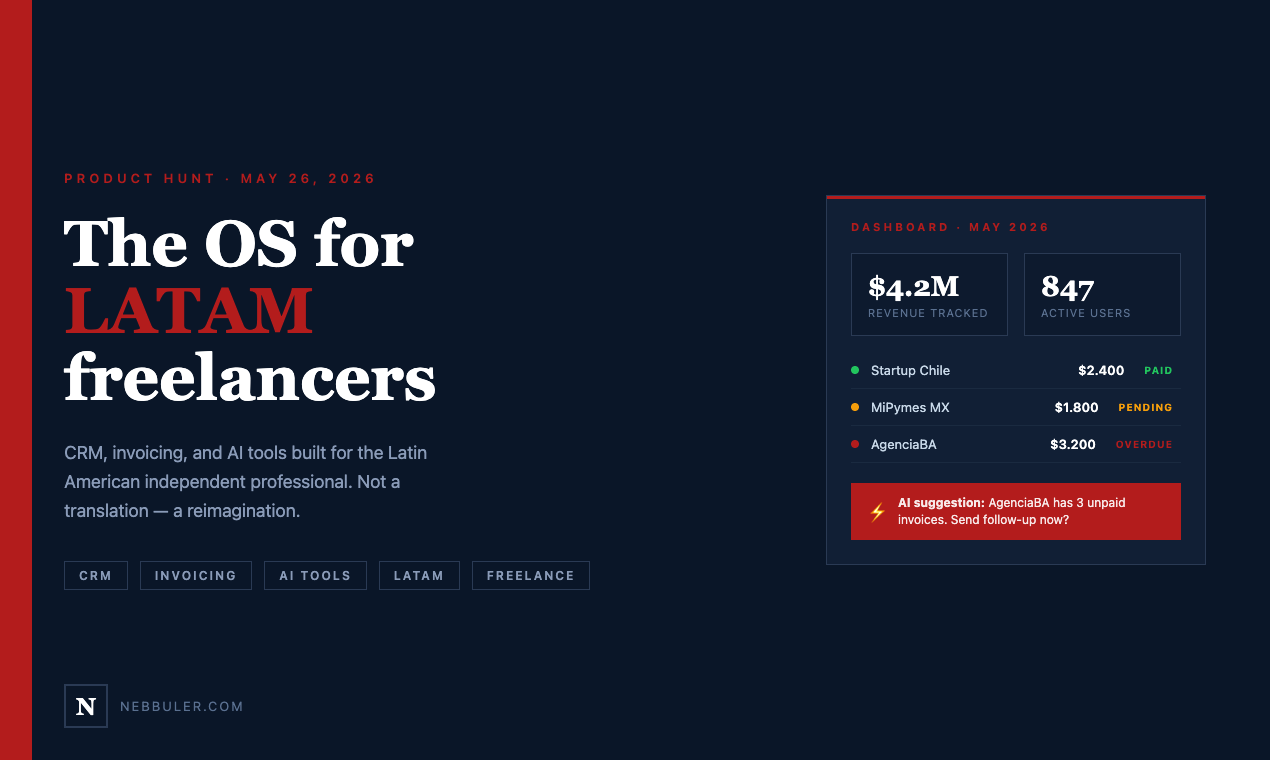
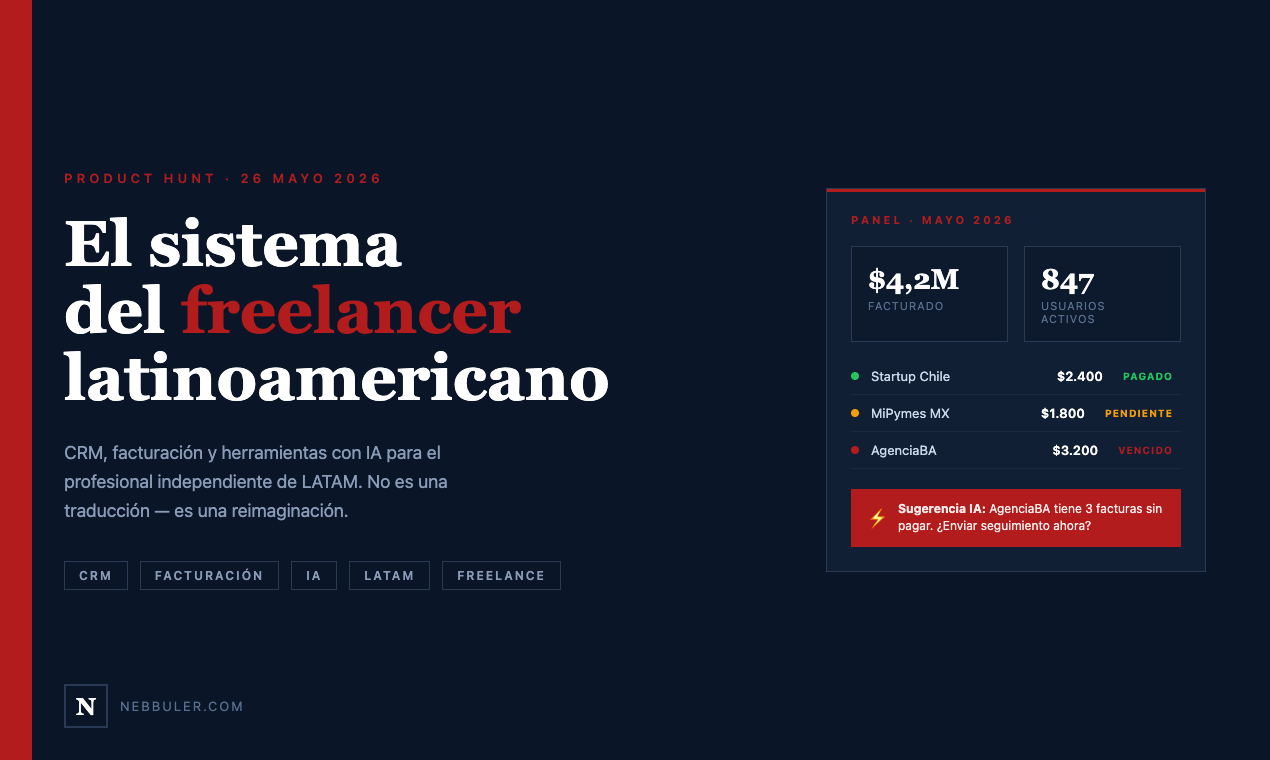
feat(product-hunt): galleries y copy 100% en español

diff --git a/public/product-hunt/ph-gallery-2.html b/public/product-hunt/ph-gallery-2.html
@@ -1,5 +1,5 @@
 <!DOCTYPE html>
-<html lang="en">
+<html lang="es">
 <head>
 <meta charset="UTF-8"/>
 <meta name="viewport" content="width=1270"/>
@@ -7,7 +7,7 @@
   * { margin: 0; padding: 0; box-sizing: border-box; }
   body {
     width: 1270px; height: 760px; overflow: hidden;
-    font-family: Georgia, serif;
+    font-family: 'Public Sans', system-ui, sans-serif;
     background: #FFFFFF;
   }
   .left-stripe { position: absolute; left: 0; top: 0; width: 8px; height: 760px; background: #B31C1C; }
@@ -56,6 +56,7 @@
   .content-area { padding: 36px 40px; overflow: hidden; }
   .page-title {
     font-size: 28px; font-weight: 700; color: #121212; margin-bottom: 8px;
+    font-family: Georgia, serif;
   }
   .page-sub {
     font-family: 'Public Sans', system-ui, sans-serif;
@@ -105,14 +106,13 @@
     font-family: 'Public Sans', system-ui, sans-serif;
     font-size: 11px; font-weight: 700; letter-spacing: 1px;
     color: #B31C1C; text-transform: uppercase; margin-top: 10px;
-    cursor: pointer; text-decoration: underline;
   }
   .kpi-row { display: flex; gap: 16px; margin-bottom: 24px; }
   .kpi {
     flex: 1; background: white; border: 1px solid #DEDEDE; padding: 16px 20px;
     border-top: 3px solid #0A1628;
   }
-  .kpi-num { font-size: 26px; font-weight: 700; color: #121212; }
+  .kpi-num { font-size: 26px; font-weight: 700; color: #121212; font-family: Georgia, serif; }
   .kpi-label {
     font-family: 'Public Sans', system-ui, sans-serif;
     font-size: 11px; color: #999; text-transform: uppercase; letter-spacing: 1px; margin-top: 4px;
@@ -129,74 +129,74 @@
     <span>Nebbuler</span>
   </div>
   <div class="nav-items">
-    <span>Dashboard</span>
-    <span>Clients</span>
-    <span>Invoices</span>
-    <span>Projects</span>
-    <span>Reports</span>
+    <span>Panel</span>
+    <span>Clientes</span>
+    <span>Facturas</span>
+    <span>Proyectos</span>
+    <span>Reportes</span>
   </div>
 </div>
 <div class="main">
   <div class="sidebar">
     <div class="sidebar-section">
-      <div class="sidebar-label">Management</div>
-      <div class="sidebar-item active"><span>📄</span> Invoices</div>
-      <div class="sidebar-item"><span>👥</span> Clients</div>
-      <div class="sidebar-item"><span>📁</span> Projects</div>
-      <div class="sidebar-item"><span>💬</span> Proposals</div>
+      <div class="sidebar-label">Gestión</div>
+      <div class="sidebar-item active"><span>📄</span> Facturas</div>
+      <div class="sidebar-item"><span>👥</span> Clientes</div>
+      <div class="sidebar-item"><span>📁</span> Proyectos</div>
+      <div class="sidebar-item"><span>💬</span> Propuestas</div>
     </div>
     <div class="sidebar-section">
-      <div class="sidebar-label">Finance</div>
-      <div class="sidebar-item"><span>💰</span> Cash Flow</div>
-      <div class="sidebar-item"><span>📊</span> Reports</div>
-      <div class="sidebar-item"><span>🧾</span> Expenses</div>
+      <div class="sidebar-label">Finanzas</div>
+      <div class="sidebar-item"><span>💰</span> Flujo de caja</div>
+      <div class="sidebar-item"><span>📊</span> Reportes</div>
+      <div class="sidebar-item"><span>🧾</span> Gastos</div>
     </div>
     <div class="sidebar-section">
-      <div class="sidebar-label">AI Tools</div>
-      <div class="sidebar-item"><span>⚡</span> AI Assistant</div>
-      <div class="sidebar-item"><span>✉</span> Follow-ups</div>
-      <div class="sidebar-item"><span>🔮</span> Forecast</div>
+      <div class="sidebar-label">Herramientas IA</div>
+      <div class="sidebar-item"><span>⚡</span> Asistente IA</div>
+      <div class="sidebar-item"><span>✉</span> Seguimientos</div>
+      <div class="sidebar-item"><span>🔮</span> Proyección</div>
     </div>
   </div>
   <div class="content-area">
-    <div class="page-title">Invoices</div>
-    <p class="page-sub">May 2026 · 12 invoices · CLP / USD / EUR / ARS</p>
+    <div class="page-title">Facturas</div>
+    <p class="page-sub">Mayo 2026 · 12 facturas · CLP / USD / EUR / ARS</p>
     <div class="kpi-row">
-      <div class="kpi"><div class="kpi-num">$18.400</div><div class="kpi-label">Total billed</div></div>
-      <div class="kpi highlight"><div class="kpi-num">$6.200</div><div class="kpi-label">Overdue</div></div>
-      <div class="kpi"><div class="kpi-num">$9.800</div><div class="kpi-label">Collected</div></div>
-      <div class="kpi"><div class="kpi-num">4</div><div class="kpi-label">Pending</div></div>
+      <div class="kpi"><div class="kpi-num">$18.400</div><div class="kpi-label">Total facturado</div></div>
+      <div class="kpi highlight"><div class="kpi-num">$6.200</div><div class="kpi-label">Vencido</div></div>
+      <div class="kpi"><div class="kpi-num">$9.800</div><div class="kpi-label">Cobrado</div></div>
+      <div class="kpi"><div class="kpi-num">4</div><div class="kpi-label">Pendientes</div></div>
     </div>
     <div class="invoice-header">
-      <div>Client</div><div>Amount</div><div>Due Date</div><div>Currency</div><div>Status</div>
+      <div>Cliente</div><div>Monto</div><div>Vencimiento</div><div>Moneda</div><div>Estado</div>
     </div>
     <div class="invoice-row">
-      <div><div class="client-col">Startup Chile</div><div class="client-sub">INV-2026-034</div></div>
+      <div><div class="client-col">Startup Chile</div><div class="client-sub">FAC-2026-034</div></div>
       <div class="amount-col">$2.400</div>
-      <div class="date-col">May 15</div>
+      <div class="date-col">15 mayo</div>
       <div class="date-col">USD</div>
-      <div><span class="status-badge" style="background:#dcfce7;color:#166534">Paid</span></div>
+      <div><span class="status-badge" style="background:#dcfce7;color:#166534">Pagado</span></div>
     </div>
     <div class="invoice-row">
-      <div><div class="client-col">MiPymes MX</div><div class="client-sub">INV-2026-033</div></div>
+      <div><div class="client-col">MiPymes MX</div><div class="client-sub">FAC-2026-033</div></div>
       <div class="amount-col">$1.800</div>
-      <div class="date-col">May 20</div>
+      <div class="date-col">20 mayo</div>
       <div class="date-col">MXN</div>
-      <div><span class="status-badge" style="background:#fef3c7;color:#92400e">Pending</span></div>
+      <div><span class="status-badge" style="background:#fef3c7;color:#92400e">Pendiente</span></div>
     </div>
     <div class="invoice-row">
-      <div><div class="client-col">AgenciaBA</div><div class="client-sub">INV-2026-031</div></div>
+      <div><div class="client-col">AgenciaBA</div><div class="client-sub">FAC-2026-031</div></div>
       <div class="amount-col">$3.200</div>
-      <div class="date-col">May 1</div>
+      <div class="date-col">1 mayo</div>
       <div class="date-col">ARS</div>
-      <div><span class="status-badge" style="background:#fee2e2;color:#991b1b">Overdue</span></div>
+      <div><span class="status-badge" style="background:#fee2e2;color:#991b1b">Vencido</span></div>
     </div>
     <div class="ai-panel">
       <div class="ai-icon-box">⚡</div>
       <div class="ai-content">
-        <div class="ai-title">AI Follow-up Assistant</div>
-        <div class="ai-text">AgenciaBA has 3 overdue invoices totaling $6.200. I drafted a professional follow-up email in Spanish. Ready to send?</div>
-        <div class="ai-action">→ Review draft &amp; send</div>
+        <div class="ai-title">Asistente de Seguimiento IA</div>
+        <div class="ai-text">AgenciaBA tiene 3 facturas vencidas por $6.200. Redacté un correo de seguimiento profesional. ¿Lo enviamos?</div>
+        <div class="ai-action">→ Revisar borrador y enviar</div>
       </div>
     </div>
   </div>

diff --git a/public/product-hunt/ph-gallery-3.html b/public/product-hunt/ph-gallery-3.html
@@ -1,5 +1,5 @@
 <!DOCTYPE html>
-<html lang="en">
+<html lang="es">
 <head>
 <meta charset="UTF-8"/>
 <meta name="viewport" content="width=1270"/>
@@ -54,8 +54,6 @@
   .price-num { font-family: Georgia, serif; font-size: 36px; font-weight: 700; color: #121212; }
   .price-period { font-size: 12px; color: #999; margin-top: 3px; }
   .price-sub { font-size: 11px; color: #999; margin-top: 4px; letter-spacing: 0.5px; }
-
-  /* Right col — testimonials & stats */
   .right-title {
     font-size: 10px; font-weight: 700; letter-spacing: 3px;
     color: #B31C1C; text-transform: uppercase; margin-bottom: 20px;
@@ -85,54 +83,55 @@
     <div class="brand-badge">N</div>
     <span>Nebbuler</span>
   </div>
-  <div class="header-right">Product Hunt · May 26, 2026</div>
+  <div class="header-right">Product Hunt · 26 mayo 2026</div>
 </div>
 <div class="content">
   <div class="left-col">
-    <div class="section-eyebrow">Built for Latin America</div>
-    <h2>Stop losing<br>money to admin</h2>
-    <p class="subtitle">LATAM freelancers waste 6h/week on invoicing, chasing payments, and managing clients. Nebbuler cuts that to 30 minutes — with AI.</p>
+    <div class="section-eyebrow">Hecho para Latinoamérica</div>
+    <h2>Deja de perder<br>plata en admin</h2>
+    <p class="subtitle">Los freelancers en LATAM pierden 6h/semana en facturas, cobranzas y clientes. Nebbuler lo reduce a 30 minutos — con IA.</p>
     <div class="features-grid">
       <div class="feature-card">
         <div class="feature-icon">💼</div>
-        <div class="feature-title">CRM for Freelancers</div>
-        <div class="feature-desc">Track clients, projects, contacts, and history in one place.</div>
+        <div class="feature-title">CRM para Freelancers</div>
+        <div class="feature-desc">Clientes, proyectos, contactos e historial en un solo lugar.</div>
       </div>
       <div class="feature-card">
         <div class="feature-icon">🧾</div>
-        <div class="feature-title">Multi-currency Invoicing</div>
-        <div class="feature-desc">CLP, ARS, MXN, USD, EUR. One click to send.</div>
+        <div class="feature-title">Facturación Multimoneda</div>
+        <div class="feature-desc">CLP, ARS, MXN, USD, EUR. Un clic para enviar.</div>
       </div>
       <div class="feature-card">
         <div class="feature-icon">⚡</div>
-        <div class="feature-title">AI Follow-ups</div>
-        <div class="feature-desc">Automatic payment reminders drafted in perfect Spanish.</div>
+        <div class="feature-title">Seguimientos con IA</div>
+        <div class="feature-desc">Recordatorios de cobro redactados en español profesional.</div>
       </div>
       <div class="feature-card">
         <div class="feature-icon">📊</div>
-        <div class="feature-title">Cash Flow Forecast</div>
-        <div class="feature-desc">Know exactly how much you'll earn next month.</div>
+        <div class="feature-title">Proyección de Caja</div>
+        <div class="feature-desc">Sabé exactamente cuánto vas a ganar el próximo mes.</div>
       </div>
     </div>
     <div class="price-block">
-      <div class="price-num">US$19</div>
-      <div class="price-period">per month · cancel anytime</div>
-      <div class="price-sub">nebbuler.com/precios</div>
+      <div>
+        <div class="price-num">US$19</div>
+        <div class="price-period">por mes · cancela cuando quieras</div>
+      </div>
     </div>
   </div>
   <div class="right-col">
-    <div class="right-title">By the numbers</div>
+    <div class="right-title">Los números</div>
     <div class="stat-item">
       <div class="big-stat">847+</div>
-      <div class="big-stat-label">freelancers already on Nebbuler</div>
+      <div class="big-stat-label">freelancers ya en Nebbuler</div>
     </div>
     <div class="stat-item">
       <div class="big-stat">6h</div>
-      <div class="big-stat-label">saved per week on average</div>
+      <div class="big-stat-label">ahorradas por semana en promedio</div>
     </div>
     <div class="stat-item">
-      <div class="big-stat">$4.2M</div>
-      <div class="big-stat-label">invoiced through the platform</div>
+      <div class="big-stat">$4,2M</div>
+      <div class="big-stat-label">facturados en la plataforma</div>
     </div>
     <div class="countries">
       <div class="country-tag">🇨🇱 Chile</div>

diff --git a/public/product-hunt/ph-gallery-1.html b/public/product-hunt/ph-gallery-1.html
@@ -1,5 +1,5 @@
 <!DOCTYPE html>
-<html lang="en">
+<html lang="es">
 <head>
 <meta charset="UTF-8"/>
 <meta name="viewport" content="width=1270"/>
@@ -65,7 +65,6 @@
     font-family: 'Public Sans', system-ui, sans-serif;
     font-size: 11px; color: #5a7090; text-transform: uppercase; letter-spacing: 1px;
   }
-  .divider { height: 1px; background: #2a3a54; margin: 16px 0; }
   .client-row {
     display: flex; align-items: center; gap: 12px; padding: 10px 0;
     border-bottom: 1px solid #1a2a40;
@@ -101,51 +100,51 @@
 <div class="stripe"></div>
 <div class="content">
   <div class="left">
-    <div class="eyebrow">Product Hunt · May 26, 2026</div>
-    <h1>The OS for<br><span>LATAM</span><br>freelancers</h1>
-    <p class="desc">CRM, invoicing, and AI tools built for the Latin American independent professional. Not a translation — a reimagination.</p>
+    <div class="eyebrow">Product Hunt · 26 mayo 2026</div>
+    <h1>El sistema<br>del <span>freelancer</span><br>latinoamericano</h1>
+    <p class="desc">CRM, facturación y herramientas con IA para el profesional independiente de LATAM. No es una traducción — es una reimaginación.</p>
     <div class="tags">
       <div class="tag">CRM</div>
-      <div class="tag">Invoicing</div>
-      <div class="tag">AI Tools</div>
+      <div class="tag">Facturación</div>
+      <div class="tag">IA</div>
       <div class="tag">LATAM</div>
       <div class="tag">Freelance</div>
     </div>
   </div>
   <div class="right">
     <div class="mockup">
-      <div class="mockup-header">Dashboard · May 2026</div>
+      <div class="mockup-header">Panel · Mayo 2026</div>
       <div class="stat-row">
         <div class="stat">
-          <div class="stat-num">$4.2M</div>
-          <div class="stat-label">Revenue tracked</div>
+          <div class="stat-num">$4,2M</div>
+          <div class="stat-label">Facturado</div>
         </div>
         <div class="stat">
           <div class="stat-num">847</div>
-          <div class="stat-label">Active users</div>
+          <div class="stat-label">Usuarios activos</div>
         </div>
       </div>
       <div class="client-row">
         <div class="client-dot" style="background:#22c55e"></div>
         <div class="client-name">Startup Chile</div>
         <div class="client-amount">$2.400</div>
-        <div class="client-status" style="color:#22c55e">Paid</div>
+        <div class="client-status" style="color:#22c55e">Pagado</div>
       </div>
       <div class="client-row">
         <div class="client-dot" style="background:#f59e0b"></div>
         <div class="client-name">MiPymes MX</div>
         <div class="client-amount">$1.800</div>
-        <div class="client-status" style="color:#f59e0b">Pending</div>
+        <div class="client-status" style="color:#f59e0b">Pendiente</div>
       </div>
       <div class="client-row">
         <div class="client-dot" style="background:#B31C1C"></div>
         <div class="client-name">AgenciaBA</div>
         <div class="client-amount">$3.200</div>
-        <div class="client-status" style="color:#B31C1C">Overdue</div>
+        <div class="client-status" style="color:#B31C1C">Vencido</div>
       </div>
       <div class="ai-banner">
         <div class="ai-icon">⚡</div>
-        <div class="ai-text"><strong>AI suggestion:</strong> AgenciaBA has 3 unpaid invoices. Send follow-up now?</div>
+        <div class="ai-text"><strong>Sugerencia IA:</strong> AgenciaBA tiene 3 facturas sin pagar. ¿Enviar seguimiento ahora?</div>
       </div>
     </div>
   </div>

diff --git a/public/product-hunt/PH-LAUNCH-COPY.md b/public/product-hunt/PH-LAUNCH-COPY.md
@@ -10,14 +10,14 @@
 Nebbuler
 ```
 
-### Tagline (50/60 chars)
+### Tagline (54/60 chars)
 ```
-AI-powered CRM & invoicing for LATAM freelancers
+CRM, facturación e IA para el freelancer latinoamericano
 ```
 
-### Description (213/260 chars)
+### Description (218/260 chars)
 ```
-LATAM freelancers waste 6h/week on admin. Nebbuler centralizes clients, projects, invoices & collections — with AI that automates proposals, follow-ups, and cash flow forecasts. Built for Latin America, not translated.
+Los freelancers en LATAM pierden 6h/semana en admin. Nebbuler centraliza clientes, proyectos, facturas y cobranzas — con IA que automatiza propuestas, seguimientos y proyección de caja. Hecho para LATAM, no traducido.
 ```
 
 ### Topics / Tags
